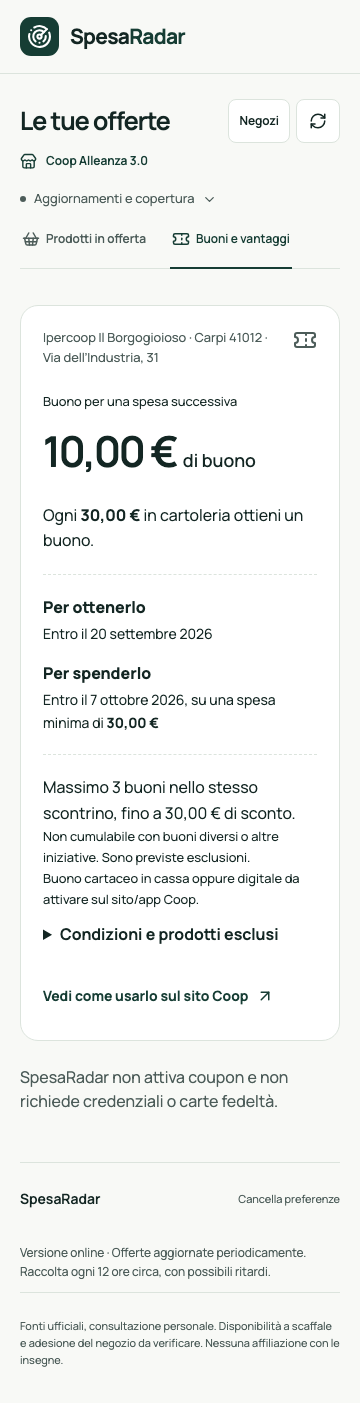
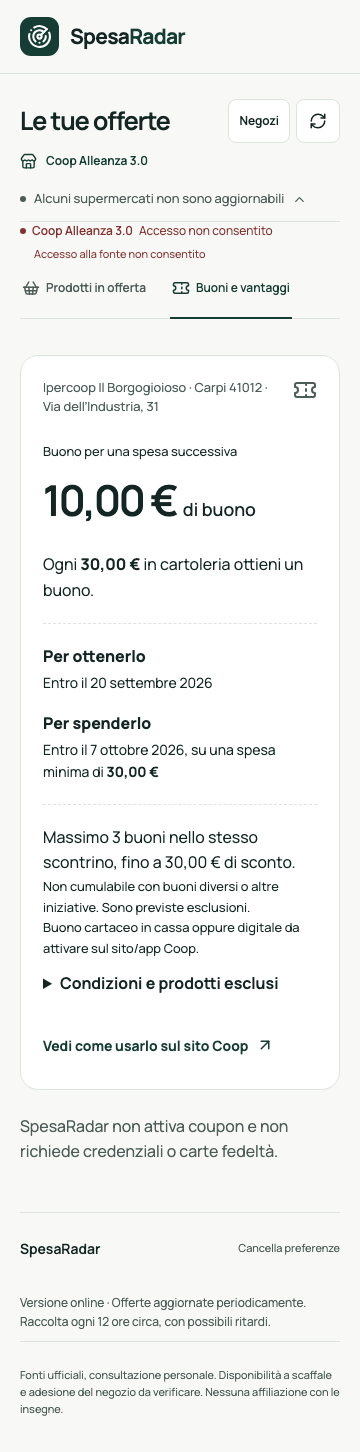
Preserve audited Coop voucher cache without renewing remote verification

diff --git a/tests/pages/catalog.spec.ts b/tests/pages/catalog.spec.ts
@@ -191,7 +191,9 @@ test("Carpi 41012: una voce Conad, cambio sede e nuove insegne", async ({
   await expect(page.locator('[data-retailer="famila"]')).toBeVisible();
   await expect(page.locator('[data-retailer="despar"]')).toBeVisible();
   await page.locator(".unsupported summary").click();
-  await expect(page.locator('[data-retailer="coop"]')).toContainText("Solo buoni e vantaggi");
+  await expect(page.locator('[data-retailer="coop"]')).toContainText(
+    "Solo buoni e vantaggi",
+  );
   await expect(page.locator(".unsupported")).toContainText("Sigma");
   await expect(page.locator(".unsupported")).toContainText("non acquisite");
   await page.screenshot({ path: "../../docs/carpi-selection-mobile.png" });
@@ -299,6 +301,17 @@ test("Coop Carpi: solo buoni, beneficio separato e condizioni visibili", async (
     .click();
   const card = page.locator(".coupon-card");
   await expect(card).toHaveCount(1);
+  const snapshot = await (await page.request.get("./catalog.json")).json();
+  if (
+    snapshot.sources.find(
+      (s: { source_id: string; state: string }) =>
+        s.source_id === "coop-carpi-buoni",
+    )?.state === "blocked"
+  ) {
+    await expect(
+      page.getByText("Accesso alla fonte non consentito", { exact: true }),
+    ).toBeVisible();
+  }
   await expect(card.getByRole("heading")).toHaveText("10,00 € di buono");
   await expect(card).toContainText("20 settembre 2026");
   await expect(card).toContainText("7 ottobre 2026");

diff --git a/backend/tests/test_pages.py b/backend/tests/test_pages.py
@@ -95,3 +95,130 @@ def test_restore_is_atomic_on_invalid_record(tmp_path):
         restore_snapshot(path)
     with Session() as s:
         assert s.query(OfferRow).count() == 0
+
+
+def reviewed_coupon(monkeypatch):
+    from datetime import timedelta
+    from pathlib import Path
+
+    from app.domain.catalog import Offer
+
+    path = Path(__file__).resolve().parents[2] / "site/reviewed-cache.json"
+    o = Offer.model_validate(json.loads(path.read_text())["records"][0]["offer"])
+    monkeypatch.setattr(
+        "app.pages.utcnow", lambda: o.last_verified_at + timedelta(minutes=10)
+    )
+    return o
+
+
+def test_reviewed_cache_preserves_remote_block_and_original_time(tmp_path, monkeypatch):
+    from app.pages import restore_reviewed_records
+
+    o = reviewed_coupon(monkeypatch)
+    verified = o.last_verified_at.timestamp()
+    path = tmp_path / "reviewed.json"
+    path.write_text(
+        json.dumps(
+            {
+                "schema_version": 1,
+                "records": [{"offer": o.model_dump(mode="json"), "withdrawn": False}],
+            }
+        )
+    )
+    with Session.begin() as s:
+        s.add(
+            SourceRow(
+                id=o.source_id,
+                state="blocked",
+                revision=5,
+                last_attempt=verified + 1,
+                last_success=None,
+                next_allowed=verified + 86400,
+                failures=1,
+                message="Blocked",
+            )
+        )
+    restore_reviewed_records(path)
+    restore_reviewed_records(path)
+    with Session() as s:
+        row = s.get(SourceRow, o.source_id)
+        assert (
+            row.state,
+            row.failures,
+            row.last_attempt,
+            row.last_success,
+            row.next_allowed,
+            row.revision,
+        ) == ("blocked", 1, verified + 1, None, verified + 86400, 6)
+        assert (
+            s.get(OfferRow, o.id).payload["last_verified_at"]
+            == o.model_dump(mode="json")["last_verified_at"]
+        )
+        assert s.query(OfferRow).count() == 1
+
+
+def test_reviewed_cache_cannot_override_newer_success_or_revive_old_data(
+    tmp_path, monkeypatch
+):
+    from datetime import timedelta
+
+    from app.pages import restore_reviewed_records
+
+    o = reviewed_coupon(monkeypatch)
+    path = tmp_path / "reviewed.json"
+
+    def write():
+        path.write_text(
+            json.dumps(
+                {
+                    "schema_version": 1,
+                    "records": [
+                        {"offer": o.model_dump(mode="json"), "withdrawn": False}
+                    ],
+                }
+            )
+        )
+
+    write()
+    with Session.begin() as s:
+        s.add(
+            SourceRow(id=o.source_id, last_success=o.last_verified_at.timestamp() + 1)
+        )
+    restore_reviewed_records(path)
+    with Session() as s:
+        assert s.query(OfferRow).count() == 0
+    monkeypatch.setattr(
+        "app.pages.utcnow", lambda: o.last_verified_at + timedelta(hours=49)
+    )
+    with Session.begin() as s:
+        s.get(SourceRow, o.source_id).last_success = None
+    restore_reviewed_records(path)
+    with Session() as s:
+        assert s.query(OfferRow).count() == 0
+
+
+@pytest.mark.parametrize("change", ["source", "identity", "economics", "timestamp"])
+def test_reviewed_cache_rejects_unreviewed_facts(tmp_path, monkeypatch, change):
+    from datetime import timedelta
+
+    from app.pages import restore_reviewed_records
+
+    o = reviewed_coupon(monkeypatch)
+    if change == "source":
+        o.source_id = "lidl-national"
+    elif change == "identity":
+        o.id = "another-voucher"
+    elif change == "economics":
+        o.benefit.amount_cents = 2000
+    else:
+        o.last_verified_at += timedelta(minutes=1)
+    path = tmp_path / "changed.json"
+    path.write_text(
+        json.dumps(
+            {"schema_version": 1, "records": [{"offer": o.model_dump(mode="json")}]}
+        )
+    )
+    with pytest.raises(ValueError):
+        restore_reviewed_records(path)
+    with Session() as s:
+        assert s.query(OfferRow).count() == 0

diff --git a/backend/app/pages.py b/backend/app/pages.py
@@ -3,6 +3,7 @@
 from __future__ import annotations
 
 import argparse
+import hashlib
 import json
 import time
 import uuid
@@ -17,6 +18,12 @@ from app.domain.catalog import Offer, temporal, utcnow
 from app.jobs.queue import claim, enqueue
 from app.jobs.worker import run_job
 from app.storage.db import Job, OfferRow, Session, SourceRow
+
+# One audited native capture, including its original verification instant.
+# Changing these facts requires a new source audit, never a timestamp edit.
+REVIEWED_COOP_SHA256 = (
[1 lines of base64/hex data omitted]
+)
 
 MAX_BYTES = 10 * 1024 * 1024
 SOURCE_FIELDS = (
@@ -155,6 +162,73 @@ def restore_snapshot(path):
             )
 
 
+def restore_reviewed_records(path):
+    """Admit already verified facts as old cache; never reset remote source health.
+
+    Maintainer-only file from a successful local run. This does not fetch, renew
+    timestamps, unwithdraw records, or override a newer successful source scan.
+    """
+    path = Path(path)
+    if path.stat().st_size > MAX_BYTES:
+        raise ValueError("Cache verificata troppo grande")
+    snapshot = json.loads(path.read_text())
+    if snapshot.get("schema_version") != 1 or len(snapshot.get("records", [])) != 1:
+        raise ValueError("Cache verificata non compatibile")
+    # Validate the entire input before any write, and discard private evidence.
+    offers = [
+        safe_offer(record["offer"])
+        for record in snapshot["records"]
+        if not record.get("withdrawn")
+    ]
+    for data in offers:
+        digest = hashlib.sha256(
+            json.dumps(
+                data, sort_keys=True, ensure_ascii=False, separators=(",", ":")
+            ).encode()
+        ).hexdigest()
+        if digest != REVIEWED_COOP_SHA256:
+            raise ValueError(
+                "Cache diversa dal buono Coop verificato: richiesto nuovo audit"
+            )
+    now = utcnow()
+    admitted = 0
+    with Session.begin() as s:
+        for data in offers:
+            state, freshness = temporal(data, now)
+            if (
+                state == "expired"
+                or freshness == "hidden"
+                or s.get(OfferRow, data["id"])
+            ):
+                continue
+            source = s.get(SourceRow, data["source_id"])
+            verified = Offer.model_validate(data).last_verified_at.timestamp()
+            if (
+                source is None
+                or source.last_success is not None
+                and source.last_success > verified
+            ):
+                continue
+            s.add(
+                OfferRow(
+                    id=data["id"],
+                    source_id=data["source_id"],
+                    campaign_id=data["campaign_id"],
+                    payload=data,
+                )
+            )
+            source.revision += 1
+            admitted += 1
+    print(
+        json.dumps(
+            {
+                "reviewed_cache_admitted": admitted,
+                "verification_timestamps_renewed": False,
+            }
+        )
+    )
+
+
 def collect_once(initial_probe=False):
     ids = [id for id, m in manifests().items() if m.enabled]
     _, entries = enqueue(ids)
@@ -185,10 +259,13 @@ def main():
     parser.add_argument("--restore", type=Path)
     parser.add_argument("--export", type=Path, required=True)
     parser.add_argument("--collect", action="store_true")
+    parser.add_argument("--reviewed-cache", type=Path)
     parser.add_argument("--initial-probe", action="store_true")
     args = parser.parse_args()
     if args.restore:
         restore_snapshot(args.restore)
+    if args.reviewed_cache:
+        restore_reviewed_records(args.reviewed_cache)
     if args.collect:
         collect_once(args.initial_probe)
     export_snapshot(args.export)

diff --git a/docs/verification.md b/docs/verification.md
@@ -209,3 +209,12 @@ Il confronto manuale comprende beneficio 10 €, soglia ottenimento 30 € in ca
 Revisione separata: nessun rilievo Critical/Required residuo; controllo della capture reale, 27 test backend mirati e 12 frontend mirati passati. Screenshot [buono Coop mobile](coop-voucher-mobile.png) aperto e ispezionato: beneficio, due finestre e minimi leggibili, nessun prezzo prodotto falso. Test browser controlla anche esclusioni, link ufficiale, reload, apertura automatica della vista buoni, ritorno dalla vista prodotti, Axe e assenza di overflow a 360 px. Corretto il test storico che cercava Coop fra le insegne totalmente non disponibili; adesso verifica l'etichetta «solo buoni».
 
 Restano **sei insegne con prodotti**, più Coop per un solo buono. Catalogo prodotti Coop e Sigma Carpi ancora non completati. L'obiettivo complessivo non viene dichiarato concluso.
+
+
+### Coop: limite del runner e conservazione della verifica originale
+
+Il [run 34215716567](https://github.com/KilluaZoldich/spesaradar/actions/runs/34215716567) ha pubblicato correttamente il codice `9c9818e`, ma il primo accesso Coop dal runner GitHub è stato rifiutato con HTTP 403 (una richiesta, circa 0,23 s). Lo snapshot conteneva quindi 1160 prodotti e nessun buono. La prima suite sul sito pubblico ha prodotto **6 passati e 1 fallito**, proprio perché il buono non era presente. Questo esito non viene interpretato come supporto remoto del connettore.
+
+Il buono acquisito nativamente prima del blocco viene conservato come cache già verificata: `site/reviewed-cache.json` contiene soltanto il record pubblico con verifica originale **2026-09-08T10:24:37.335767Z**. Il ripristino eccezionale ammette un solo record protetto da SHA-256 dell'intero payload canonico; non consente di cambiare identità, importi, condizioni o timestamp senza un nuovo audit nel codice. Non modifica stato bloccato, ultimo tentativo, ultimo successo, fallimenti o cooldown del runner. Non esegue richieste remote, non sovrascrive record esistenti/ritirati o scansioni riuscite più recenti, e nasconde il dato dopo le originarie 48 ore. Non è una soluzione alla raccolta automatica Coop da GitHub.
+
+Verifica del ripristino su database isolato dallo snapshot remoto bloccato: **1160 prodotti + 1 buono**, stato Coop ancora `blocked`, `last_success=null`, timestamp del buono invariato. Suite backend finale **199 passati** (1,46 s), Ruff passato; anteprima Pages con questo stato **7 passati** (8,8 s). Revisione indipendente: corretto il primo importatore troppo generico, nessun rilievo Critical/Required residuo dopo vincolo sull'hash e test di mutazione; nove test del modulo Pages passati. Screenshot Coop aperto e ispezionato con avviso di accesso non consentito visibile sopra il buono.

diff --git a/README.md b/README.md
@@ -105,3 +105,6 @@ La revisione dell’interfaccia con Build Web Apps, le schermate desktop/mobile 
 [Guida ai profili e al replay offline](docs/source-onboarding.md): aggiungere una sede Conad dello stesso formato richiede un manifest verificato, senza duplicare parser, worker o interfaccia. Il comando di scaffolding crea fonti disabilitate; il replay produce un rapporto diagnostico senza effettuare richieste o pubblicare prezzi.
 
 Per sviluppare connettori più rapidamente senza nuove richieste a ogni modifica, usa i [profili e il replay offline](docs/architecture.md#aggiunta-rapida-di-profili-di-estrazione). La UI e la coda non cambiano per ogni nuova insegna.
+
+
+Coop su Pages: il runner GitHub ha ricevuto un 403. Il singolo buono già verificato localmente l'8 settembre 2026 alle 10:24 UTC è conservato temporaneamente con il suo timestamp originale e l'avviso di aggiornamento bloccato; sparisce dal feed dopo 48 ore senza verifica. La raccolta automatica remota Coop e il catalogo prodotti Coop non sono completati.

diff --git a/docs/operations.md b/docs/operations.md
@@ -86,3 +86,8 @@ docker compose -f compose.yaml -f compose.restore.yaml up -d
 ```
 
 Il database precedente resta nel volume. Per tornare al precedente usa il Compose originale dopo aver fermato i servizi. Non cancellare file WAL/SHM di un database in uso.
+
+
+### Cache Coop già verificata
+
+Il workflow può ammettere `site/reviewed-cache.json` dopo il ripristino dello snapshot pubblico. È un'eccezione limitata al singolo buono Coop acquisito prima del 403 GitHub: il codice verifica l'hash canonico dell'intero record. Non modificare date per prolungarne la visibilità; scade dal feed a 48 ore dalla verifica originale. Il file non contiene capture grezze e non azzera il blocco della fonte. Nuovi dati richiedono raccolta consentita e audit, non aggiornamento manuale dei prezzi.
